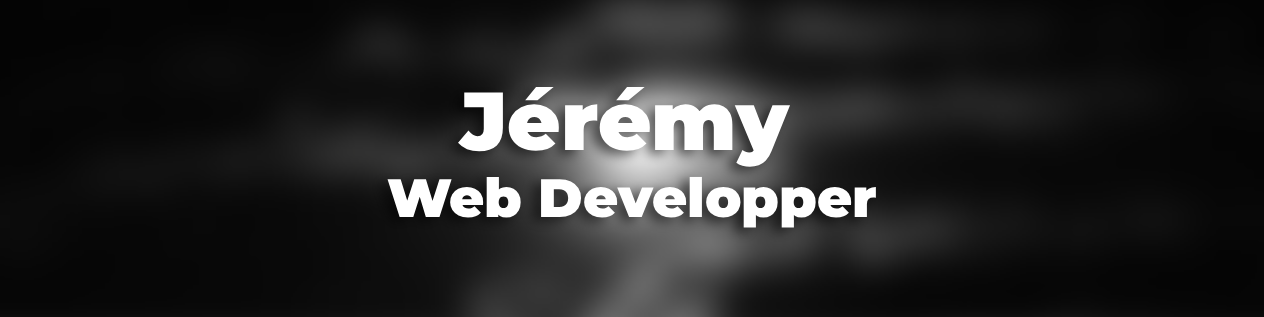
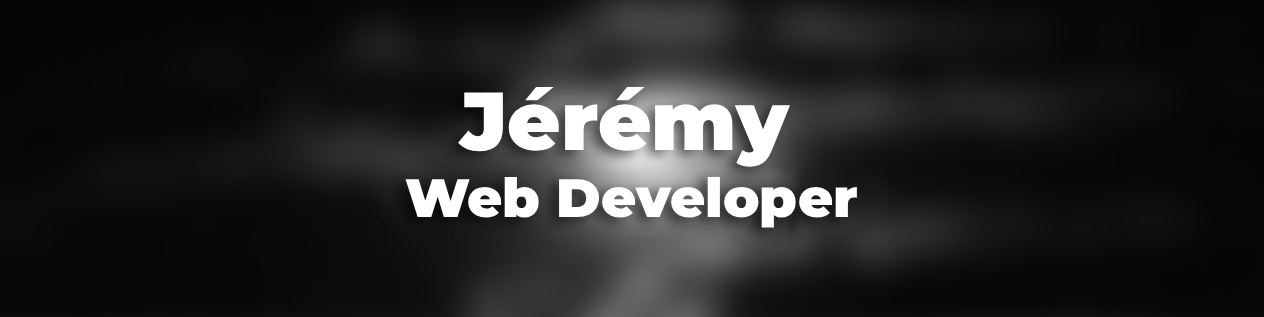
correction: moyenne de commits depuis 2024 et faute dans la bannière

Changed region(s): [[0.3085, 0.5394, 0.7097, 0.7382]]

diff --git a/generate-stack.py b/generate-stack.py
@@ -8,6 +8,7 @@ USERNAME = "jeremy-prt"
 DISPLAY_NAME = "Jérémy"
 BIRTH_DATE = "2003-08-02"
 MAX_LANGS = 6
+START_YEAR = 2024
 
 LANG_COLORS = {
     "Swift": "#F05138", "TypeScript": "#3178C6", "HTML": "#E34C26",
@@ -35,12 +36,12 @@ PHRASE_TIMES = [2, 6.5, 9, 14, 18.5, 23, 26, 31, 35.5, 39, 43, 47.5, 50, 53, 56,
 PHRASE_CYCLE = 60
 
 
-def fetch(url):
+def fetch(url, body=None):
     headers = {"User-Agent": "github-stack-gen"}
     token = os.environ.get("GH_TOKEN")
     if token:
         headers["Authorization"] = f"Bearer {token}"
-    req = urllib.request.Request(url, headers=headers)
+    req = urllib.request.Request(url, data=body, headers=headers)
     with urllib.request.urlopen(req) as r:
         return r.read()
 
@@ -49,8 +50,24 @@ def fetch_json(url):
     return json.loads(fetch(url))
 
 
-def to_b64(url):
-    return base64.b64encode(fetch(url)).decode()
+def fetch_all(url):
+    items, page = [], 1
+    while True:
+        batch = fetch_json(f"{url}&per_page=100&page={page}")
+        items += batch
+        if len(batch) < 100:
+            return items
+        page += 1
+
+
+def graphql(query):
+    body = json.dumps({"query": query}).encode()
+    return json.loads(fetch("https://api.github.com/graphql", body))["data"]
+
+
+def to_b64(path):
+    with open(path, "rb") as f:
+        return base64.b64encode(f.read()).decode()
 
 
 # Daily color
@@ -61,18 +78,12 @@ COLOR = DAILY_COLORS[today.timetuple().tm_yday % len(DAILY_COLORS)]
 birth = date.fromisoformat(BIRTH_DATE)
 age = today.year - birth.year - ((today.month, today.day) < (birth.month, birth.day))
 
-# Images
-avatar_b64 = to_b64(
-    f"https://raw.githubusercontent.com/{USERNAME}/{USERNAME}/main/avatar.png"
-)
-banner_b64 = to_b64(
-    f"https://raw.githubusercontent.com/{USERNAME}/{USERNAME}/main/banner.png"
-)
+# Images (read from the checkout: raw.githubusercontent.com serves a cached copy for a few minutes after a push)
+avatar_b64 = to_b64("avatar.png")
+banner_b64 = to_b64("banner.png")
 
 # Languages
-repos = fetch_json(
-    f"https://api.github.com/users/{USERNAME}/repos?per_page=100&sort=updated"
-)
+repos = fetch_all(f"https://api.github.com/users/{USERNAME}/repos?type=owner")
 
 lang_bytes = {}
 for repo in repos:
@@ -82,25 +93,17 @@ for repo in repos:
     for lang, count in langs.items():
         lang_bytes[lang] = lang_bytes.get(lang, 0) + count
 
-# Commits
-user = fetch_json(f"https://api.github.com/users/{USERNAME}")
-created = user.get("created_at", "2023-01-01T00:00:00Z")
-created_dt = datetime.fromisoformat(created.replace("Z", "+00:00"))
-years = max(1, (datetime.now(timezone.utc) - created_dt).days / 365.25)
-
-non_fork_repos = [r for r in repos if not r.get("fork")]
+# Commits since START_YEAR. Private ones only come back as restrictedContributionsCount
+# (shown on the profile, not split by type), and a query can span one year at most.
+now = datetime.now(timezone.utc)
 total_commits = 0
-for repo in non_fork_repos:
-    try:
-        contribs = fetch_json(
-            f"https://api.github.com/repos/{USERNAME}/{repo['name']}/contributors"
-        )
-        for c in contribs:
-            if c.get("login", "").lower() == USERNAME.lower():
-                total_commits += c.get("contributions", 0)
-    except Exception:
-        pass
+for year in range(START_YEAR, now.year + 1):
+    c = graphql(
+        f'{{ user(login: "{USERNAME}") {{ contributionsCollection(from: "{year}-01-01T00:00:00Z", to: "{year}-12-31T23:59:59Z") {{ totalCommitContributions restrictedContributionsCount }} }} }}'
+    )["user"]["contributionsCollection"]
+    total_commits += c["totalCommitContributions"] + c["restrictedContributionsCount"]
 
+years = (now - datetime(START_YEAR, 1, 1, tzinfo=timezone.utc)).days / 365.25
 avg_commits = round(total_commits / years)
 
 # Filter languages
@@ -263,7 +266,7 @@ svg = f'''<svg xmlns="http://www.w3.org/2000/svg" xmlns:xlink="http://www.w3.org
 
   {grid}
 
-  <text x="{WIDTH - P}" y="{FOOTER_Y + 14}" class="footer" text-anchor="end" opacity="0">~ {avg_commits} commits / year on average<animate attributeName="opacity" from="0" to="1" dur="0.5s" begin="1.8s" fill="freeze"/></text>
+  <text x="{WIDTH - P}" y="{FOOTER_Y + 14}" class="footer" text-anchor="end" opacity="0">~ {avg_commits} commits / year since {START_YEAR}<animate attributeName="opacity" from="0" to="1" dur="0.5s" begin="1.8s" fill="freeze"/></text>
 
   {ghost_svg}
 </svg>'''
@@ -271,4 +274,4 @@ svg = f'''<svg xmlns="http://www.w3.org/2000/svg" xmlns:xlink="http://www.w3.org
 with open("tech-stack.svg", "w") as f:
     f.write(svg)
 
-print(f"Generated tech-stack.svg — {len(data)} languages, ~{avg_commits} commits/year, color: {COLOR}")
+print(f"Generated tech-stack.svg — {len(data)} languages, ~{avg_commits} commits/year since {START_YEAR}, color: {COLOR}")
